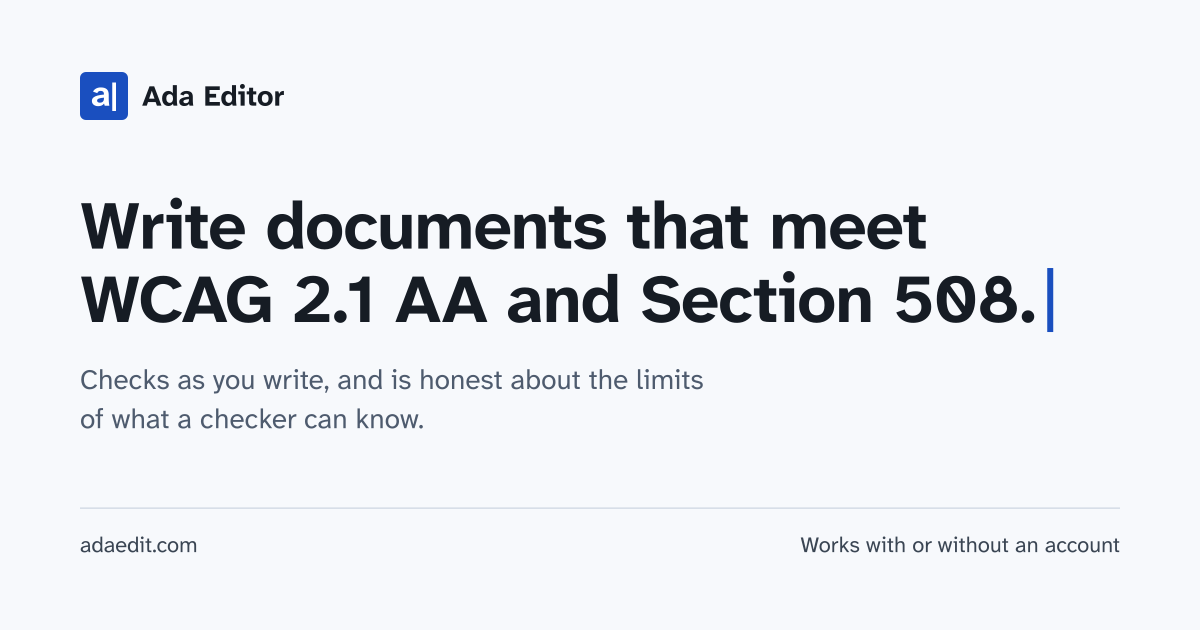
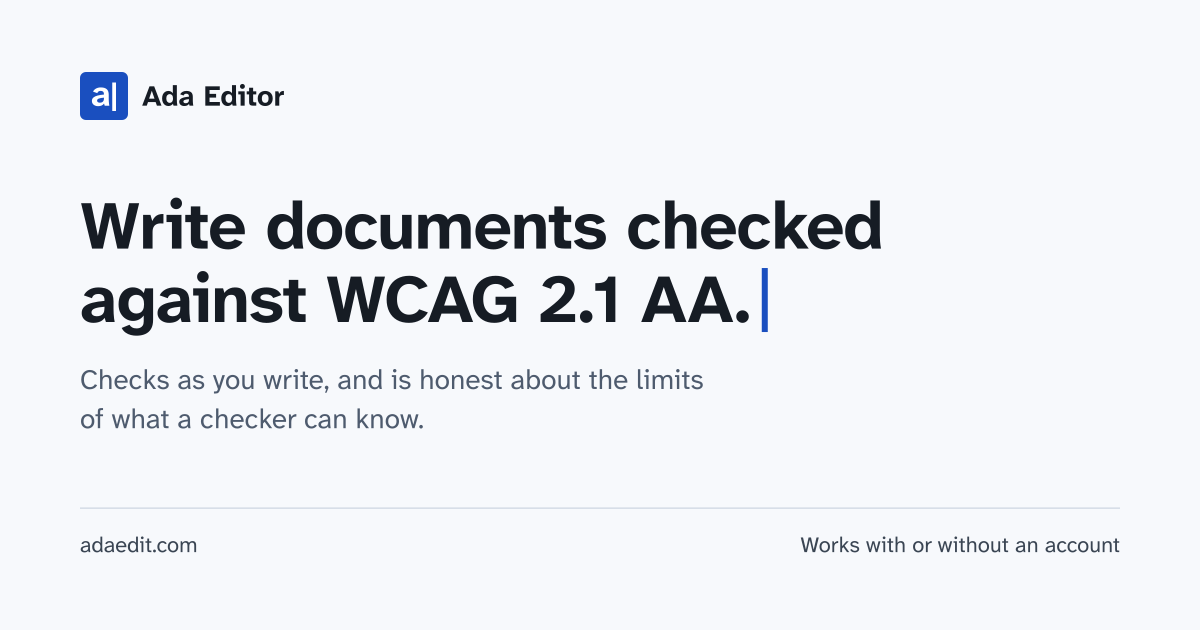
Guide: what "ADA compliant PDF" can and can't mean (#84)
/guides/ada-compliant-pdf: the ADA names no PDF standard; the standards
people mean (WCAG 2.1 AA under Title II, WCAG 2.0 AA under Section 508,
PDF/UA-1); what a checker can decide (the Matterhorn Protocol's machine and
human conditions) and what a PDF/UA label proves (our research found it on
files with no headings); how to get an accessible PDF; and what Ada Editor's
own exports are tested for. Linked from the home Promise, Help and About.

The tagline "Write documents that meet WCAG 2.1 AA and Section 508"
contradicted the guide in its own footer, so every copy (footer, default
description, manifest, share image and its alt text, README) now reads
"Write documents checked against WCAG 2.1 AA". The share image was rebuilt
with npm run icons:build.

Fact-checked against the Access Board, eCFR, PDF Association, PAC and
veraPDF pages before this commit.

Changed region(s): [[0.0617, 0.4222, 0.8942, 0.5429], [0.5242, 0.3016, 0.7708, 0.4222]]

diff --git a/app/guides/ada-compliant-pdf/page.tsx b/app/guides/ada-compliant-pdf/page.tsx
@@ -1,0 +1,164 @@
+import type { Metadata } from 'next';
+import Link from 'next/link';
+import { JsonLd, articleData } from '../../_site/JsonLd';
+import { pageMetadata } from '../../_site/pages';
+import { Site, Toc } from '../../_site/Site';
+import '../../research/research.css';
+
+export const metadata: Metadata = pageMetadata('/guides/ada-compliant-pdf');
+
+const HEADLINE = 'What “ADA compliant PDF” can and can’t mean';
+
+/* Every claim here traces to a source listed at the bottom: the Section 508
+ * standards, 28 CFR 35.200, the PDF Association (ISO 14289, the Matterhorn
+ * Protocol 1.1), the checkers' own pages, or our agenda-platform research
+ * (docs/audit/agenda-platforms-2026-10/report.md). Say "our reading" where it
+ * isn't a source's own words, and never call a file compliant. A change to
+ * what this page says is a new `updated` date in app/_site/pages.ts and a
+ * line under Corrections. No `current`: the footer doesn't list this page. */
+
+export default function Page() {
+  return (
+    <Site>
+      <JsonLd data={articleData('/guides/ada-compliant-pdf', HEADLINE)} />
+      <section className="site-page-hero" aria-labelledby="page-title">
+        <div className="site-wrap">
+          <p className="site-eyebrow">Guide</p>
+          <h1 id="page-title">{HEADLINE}</h1>
+          <p className="site-lede">
+            The ADA doesn’t define a compliant PDF. People who ask for one may mean WCAG 2.1 AA, WCAG 2.0 AA
+            (Section 508) or PDF/UA, and no checker, and no label inside the file, can confirm any of them on its own.
+          </p>
+          <dl className="site-facts">
+            <div><dt>By</dt><dd><Link href="/about">YourLaunchPad LLC</Link></dd></div>
+            <div><dt>Published</dt><dd><time dateTime="2026-10-12">12 October 2026</time></dd></div>
+            <div><dt>Last reviewed</dt><dd><time dateTime="2026-10-12">12 October 2026</time></dd></div>
+            <div><dt>Covers</dt><dd>WCAG 2.1 AA, Section 508, PDF/UA-1</dd></div>
+          </dl>
+        </div>
+      </section>
+
+      <div className="site-wrap site-statement research">
+        <Toc items={[['answer', 'The short answer'], ['standards', 'Which standard someone means'], ['checkers', 'What a checker can and can’t tell you'], ['has', 'What an accessible PDF has'], ['how', 'How to get one'], ['ours', 'What Ada Editor says about its own PDFs'], ['corrections', 'Corrections and limits'], ['sources', 'Sources']]} />
+        <div className="site-col">
+          <section id="answer" aria-labelledby="answer-title">
+            <h2 id="answer-title">The short answer</h2>
+            <p>
+              The Americans with Disabilities Act sets duties, not file formats. Where a rule names a technical
+              standard for documents, it is WCAG: Title II’s web rule uses WCAG 2.1 AA, and Section 508 uses WCAG 2.0
+              AA. PDF/UA is an ISO standard for the PDF file itself. “ADA compliant” is a description, not one of
+              these standards.
+            </p>
+            <p>
+              A PDF can pass an automated checker, carry a PDF/UA label, and still be hard or impossible to read with a
+              screen reader. Some of what these standards ask needs a person to judge.
+            </p>
+          </section>
+
+          <section id="standards" aria-labelledby="standards-title">
+            <h2 id="standards-title">Which standard someone means</h2>
+            <ul>
+              <li><strong>WCAG 2.1 AA, for state and local governments.</strong> The ADA’s Title II rule holds their web content, posted documents included, to WCAG 2.1 Level A and AA, currently from April 26, 2027 or April 26, 2028 depending on size (every special district: 2028). Our <Link href="/guides/title-ii-meeting-documents">guide to Title II for meeting documents</Link> has the dates and exceptions.</li>
+              <li><strong>WCAG 2.0 AA, under Section 508.</strong> Section 508 covers federal agencies. Its standards say electronic content “shall conform to Level A and Level AA Success Criteria and Conformance Requirements in WCAG 2.0”, and excuse documents that aren’t web pages from four criteria (2.4.1, 2.4.5, 3.2.3 and 3.2.4).</li>
+              <li><strong>PDF/UA-1 (ISO 14289-1), for the file.</strong> It sets technical requirements for an accessible PDF file, chiefly its tags: the structure that tells assistive technology what each part of the page is. PDF/UA-2 (ISO 14289-2:2024) is its revision for PDF 2.0.</li>
+            </ul>
+            <p>
+              They overlap but aren’t the same. The PDF Association says PDF/UA “provides a means of making PDF files
+              that conform to” WCAG, and that conforming to PDF/UA “does not necessarily ensure the accessibility of a
+              document’s content”: inaccessible use of colour or contrast, for example, is outside it.
+            </p>
+          </section>
+
+          <section id="checkers" aria-labelledby="checkers-title">
+            <h2 id="checkers-title">What a checker can and can’t tell you</h2>
+            <p>
+              The PDF Association’s Matterhorn Protocol lists the ways a file can fail PDF/UA-1. Its introduction counts
+              136 failure conditions: 87 “can be determined by software alone”, 47 “usually require human judgment”,
+              and two have no specific test. Version 1.1 added one more, which needs a person.
+            </p>
+            <ul>
+              <li><strong>Software can tell</strong> whether heading levels skip (an H3 straight after an H1), whether a figure has no alternative text, or whether the file has no title.</li>
+              <li><strong>A person has to tell</strong> whether headings were tagged as headings at all, whether something that looks like a list is tagged as one, and whether the title identifies the document.</li>
+            </ul>
+            <p>
+              WCAG adds judgements no file check makes, such as whether alt text serves the same purpose as the image.
+              A label proves even less: the PDF/UA identifier is a line of metadata written by the software that made
+              the file, and its presence doesn’t show the file meets the standard. In our <Link href="/research/agenda-platforms">research on agenda platforms</Link>,
+              a 199-page meeting package one platform built, with no headings, tables, lists or image descriptions, and a converted Word
+              file holding nothing but paragraphs, both declared PDF/UA-1.
+            </p>
+          </section>
+
+          <section id="has" aria-labelledby="has-title">
+            <h2 id="has-title">What an accessible PDF has</h2>
+            <p>In practice, most of what these standards ask of a PDF comes down to a short list:</p>
+            <ul>
+              <li><strong>Real tags:</strong> headings, lists and tables tagged as what they are, with header cells marked.</li>
+              <li><strong>A reading order</strong> that follows the meaning, with page numbers and decoration marked so screen readers skip them.</li>
+              <li><strong>Alternative text</strong> that serves the same purpose as each meaningful image.</li>
+              <li><strong>A language and a title,</strong> so a screen reader pronounces it correctly and announces what it is.</li>
+              <li><strong>Links whose purpose is clear</strong> from their text or its context, and colour that isn’t the only way to tell things apart.</li>
+              <li><strong>Enough contrast</strong> between text and background.</li>
+            </ul>
+            <p>
+              Our <Link href="/help#checks">list of the checks Ada Editor runs</Link> names the WCAG success criterion
+              behind each one.
+            </p>
+          </section>
+
+          <section id="how" aria-labelledby="how-title">
+            <h2 id="how-title">How to get one</h2>
+            <ol>
+              <li><strong>Make it accessible where you write it.</strong> Use real headings, lists and tables in Word or your editor, and write alt text there. A tagged export can only carry the structure the source document has.</li>
+              <li><strong>Export a tagged PDF.</strong> Use the export option that keeps tags, not Print to PDF or the print dialog’s Save as PDF, which drop the structure.</li>
+              <li><strong>Run a checker.</strong> PAC (free, for Windows) checks PDF/UA and WCAG; veraPDF (free and open source) validates PDF/UA. Fix what they find.</li>
+              <li><strong>Have a person read it,</strong> ideally with a screen reader, for the things software can’t judge.</li>
+              <li><strong>Check the copy you posted.</strong> Some agenda and document systems strip tags when they publish. Our <Link href="/help#posting">steps for posting a PDF to an agenda system</Link> cover what to do.</li>
+            </ol>
+          </section>
+
+          <section id="ours" aria-labelledby="ours-title">
+            <h2 id="ours-title">What Ada Editor says about its own PDFs</h2>
+            <p>
+              Ada Editor, whose maker publishes this guide, exports tagged PDFs that declare PDF/UA-1. We test the
+              exporter with veraPDF in our automated tests, as our{' '}
+              <Link href="/accessibility">accessibility statement</Link> says, on sample documents. That tests our
+              exporter, not your document: whatever the checker flags in your document is still in the PDF.
+            </p>
+            <p>
+              It won’t call your PDF compliant. It marks what software found, and what needs your call.
+            </p>
+          </section>
+
+          <section id="corrections" aria-labelledby="corrections-title">
+            <h2 id="corrections-title">Corrections and limits</h2>
+            <p>
+              This guide explains the standards. It isn’t legal advice: whether a document meets your obligations is a
+              question for your attorney.
+            </p>
+            <p>
+              Found something wrong or out of date?{' '}
+              <a href="https://github.com/Ruckus000/Ada-editor/issues/new?title=Guide%20correction%3A%20">Report a correction to this guide</a>{' '}
+              (public, on GitHub).
+            </p>
+            <p>None yet.</p>
+          </section>
+
+          <section id="sources" aria-labelledby="sources-title">
+            <h2 id="sources-title">Sources</h2>
+            <p>Read on October 12, 2026.</p>
+            <ul className="research__sources">
+              <li>U.S. Access Board, <a href="https://www.access-board.gov/ict/">Revised Section 508 Standards</a>, 36 CFR part 1194, E205.4 and 702.10.1.</li>
+              <li>28 CFR 35.200, <a href="https://www.ecfr.gov/current/title-28/chapter-I/part-35/subpart-H/section-35.200">requirements for web and mobile accessibility</a>, as amended April 20, 2026.</li>
+              <li>W3C, <a href="https://www.w3.org/TR/WCAG21/">Web Content Accessibility Guidelines (WCAG) 2.1</a>.</li>
+              <li>PDF Association, <a href="https://pdfa.org/resource/iso-14289-pdfua/">ISO 14289-1 (PDF/UA-1)</a>, including its context and limitations.</li>
+              <li>PDF Association, <a href="https://pdfa.org/resource/the-matterhorn-protocol/">The Matterhorn Protocol 1.1</a> (April 2021).</li>
+              <li><a href="https://pac.pdf-accessibility.org/en/download">PAC 2026</a>, download page and system requirements.</li>
+              <li><a href="https://verapdf.org/">veraPDF</a>, the open-source PDF/A and PDF/UA validator.</li>
+            </ul>
+          </section>
+        </div>
+      </div>
+    </Site>
+  );
+}

diff --git a/app/page.tsx b/app/page.tsx
@@ -156,7 +156,7 @@ export default function Page() {
       <section id="promise" className="site-section site-wrap site-split" aria-labelledby="promise-title">
         <div>
           <h2 id="promise-title" className="site-h2">We will never call your document “compliant.”</h2>
-          <p className="site-lede">Automated checks cover roughly a third of WCAG. Ada Editor flags what it can prove, marks what needs a person, and says so when it finds nothing.</p>
+          <p className="site-lede">Automated checks cover roughly a third of WCAG. Ada Editor flags what it can prove, marks what needs a person, and says so when it finds nothing. <Link href="/guides/ada-compliant-pdf">What “ADA compliant” can and can’t mean</Link>.</p>
         </div>
         <div className="site-panel">
           <p className="site-findings__head"><span>Findings</span><span className="site-count">0 automated</span></p>

diff --git a/app/help/page.tsx b/app/help/page.tsx
@@ -78,7 +78,7 @@ export default function Page() {
                 </div>
               ))}
             </dl>
-            <p>No findings doesn’t mean a document is accessible. Automated checks cover roughly a third of WCAG; whether alt text is accurate, or headings match the real structure, still needs a person.</p>
+            <p>No findings doesn’t mean a document is accessible. Automated checks cover roughly a third of WCAG; whether alt text is accurate, or headings match the real structure, still needs a person. More in our guide to <Link href="/guides/ada-compliant-pdf">what “ADA compliant PDF” can and can’t mean</Link>.</p>
           </section>
 
           <section id="checks" aria-labelledby="checks-title">

diff --git a/app/about/page.tsx b/app/about/page.tsx
@@ -56,7 +56,8 @@ export default function Page() {
             <ul>
               <li>
                 <strong>No compliance claims.</strong> Automated checks cover only part of WCAG, so Ada Editor never
-                calls a document compliant. What needs a person is marked “Needs your call”.
+                calls a document compliant. What needs a person is marked “Needs your call”. Our guide explains{' '}
+                <Link href="/guides/ada-compliant-pdf">what “ADA compliant PDF” can and can’t mean</Link>.
               </li>
               <li>
                 <strong>Your Word files stay with you.</strong> They are read in your browser; the file itself is never

diff --git a/app/_site/Site.tsx b/app/_site/Site.tsx
@@ -26,7 +26,7 @@ export function Site({ current, children }: { current?: 'about' | 'accessibility
         <div className="site-footer__cols">
           <div className="site-footer__about">
             <p className="site-brand"><span className="site-brand__mark" aria-hidden="true"><BrandMark /></span>Ada Editor</p>
-            <p>Write documents that meet WCAG 2.1 AA and Section 508, and know exactly what a checker can’t tell you.</p>
+            <p>Write documents checked against WCAG 2.1 AA, and know exactly what a checker can’t tell you.</p>
           </div>
           <nav aria-labelledby="site-foot-product">
             <h2 id="site-foot-product">Product</h2>

diff --git a/app/_site/pages.ts b/app/_site/pages.ts
@@ -77,6 +77,14 @@ export const PAGES = [
     updated: '2026-10-12',
     kind: 'article',
   },
+  {
+    path: '/guides/ada-compliant-pdf',
+    title: 'What “ADA compliant PDF” can and can’t mean · Ada Editor',
+    description: 'What an “ADA compliant PDF” can mean (WCAG 2.1 AA, Section 508, PDF/UA), what checkers and PDF/UA labels can’t confirm, and how to make an accessible one.',
+    published: '2026-10-12',
+    updated: '2026-10-12',
+    kind: 'article',
+  },
 ] as const satisfies readonly SitePage[];
 
 export type SitePath = (typeof PAGES)[number]['path'];

diff --git a/app/manifest.ts b/app/manifest.ts
@@ -9,7 +9,7 @@ export default function manifest(): MetadataRoute.Manifest {
   return {
     name: 'Ada Editor',
     short_name: 'Ada Editor',
-    description: 'Write documents that meet WCAG 2.1 AA and Section 508.',
+    description: 'Write documents checked against WCAG 2.1 AA.',
     // Opens on the desk (sign-in first when signed out). The id keeps the
     // identity home-screen shortcuts were saved with when start_url was /.
     id: '/',

diff --git a/app/layout.tsx b/app/layout.tsx
@@ -21,7 +21,7 @@ import { SITE_URL } from './_site/pages';
 export const metadata: Metadata = {
   metadataBase: new URL(SITE_URL),
   applicationName: 'Ada Editor',
-  description: 'Write documents that meet WCAG 2.1 AA and Section 508.',
+  description: 'Write documents checked against WCAG 2.1 AA.',
   openGraph: { siteName: 'Ada Editor', type: 'website', locale: 'en_US' },
 };
 

diff --git a/docs/audit/search-and-ai-2026-10/research-niche.md b/docs/audit/search-and-ai-2026-10/research-niche.md
@@ -249,3 +249,20 @@ Demand basis: G = Google autocomplete variants; PAA = Brave "People also ask"; n
 - **The docket** (PacerMonitor, read 2026-10-12): entry 16, NFB's motion for summary judgment on 2026-09-28. Judge Richard D. Bennett. No cross-motion or ruling shown.
 - **What the complaint asks** (read in full, [browngold.com](https://browngold.com/wp-content/uploads/2026/05/NFB-v.-DOJ_5-21-2026.pdf)): its Prayer for Relief asks the court to "Hold unlawful, vacate, and/or set aside the IFRs" and declare them unlawful. It never asks to "restore" dates; that is the summaries' gloss, and it corrects "seeks to restore the original dates" above.
 - **The 2024 rule on agendas:** agendas, minutes and other documents for meetings after the compliance date "would likely not" be archived content (89 FR 31340), and "would generally need to conform to WCAG 2.1 Level AA" (89 FR 31362). Instructions for documents still in use aren't excepted, and "currently used" is "a fact-specific analysis" (89 FR 31365).
+
+### Addendum, 2026-10-12: sourced for the "ADA compliant PDF" guide
+- **Matterhorn Protocol 1.1** (PDF Association, April 2021; supersedes 1.02). It reads: "a set of 31 checkpoints comprised of 136 failure conditions… 87 failure conditions can be determined by software alone, 47 failure conditions usually require human judgment. 2 failure conditions have no specific tests (23-001 and 27-001)."
+  - Machine examples: 14-003 (skipped heading levels), 13-004 (Figure alt text missing), 06-003 (no dc:title).
+  - Human examples: 14-001 (headings not tagged), 16-003 (a list not tagged as a list), 06-004 (title doesn't identify the document).
+  - The 1.1 table adds 13-008 (human), so the table holds 137 conditions, 48 of them human, while the introduction still says 136 and 47. The PDF Association's `techniques-for-accessible-pdf/config/matterhorn.yaml` agrees with the table. The guide quotes the introduction and notes the addition.
+  - pdfa.org blocks scripted fetches; it was read in a browser.
+- **PDF Association, ISO 14289-1 page:**
+  - PDF/UA "provides a means of making PDF files that conform to" WCAG.
+  - "By itself, conformity to PDF/UA does not necessarily ensure the accessibility of a document's content", and colour and contrast are outside it.
+  - ISO 14289-2:2024 is PDF/UA-2, for PDF 2.0.
+- **Revised 508 Standards (Access Board):**
+  - E205.4: electronic content "shall conform to Level A and Level AA Success Criteria and Conformance Requirements in WCAG 2.0".
+  - Non-Web documents are excepted from 2.4.1, 2.4.5, 3.2.3 and 3.2.4.
+  - 702.10.1 incorporates WCAG 2.0 (December 11, 2008).
+- **PAC 2026.1:** free; Windows 10 or 11 with .NET Framework 4.8; checks ISO 14289 and WCAG.
+- **veraPDF:** an "open source, file-format validator covering all PDF/A and PDF/UA parts and conformance levels".

diff --git a/docs/audit/search-and-ai-2026-10.md b/docs/audit/search-and-ai-2026-10.md
@@ -234,7 +234,7 @@ Bing Webmaster Tools, a sitemap there, and IndexNow come before anything else ai
 4. **Content, about a page a week:**
    1. the agenda-platform research;
    2. Title II for meeting documents, with the current dates (April 26, 2027 and April 26, 2028), the lawsuit's status and DOJ's own examples. *Published 2026-10-12 at `/guides/title-ii-meeting-documents`, an Article like the research page, every claim checked against the regulation's text, DOJ's fact sheet or the docket. Left out, as no query asked for them: state laws, HHS's Section 504 dates, and the two exceptions that don't touch meeting documents;*
-   3. what "ADA compliant PDF" can and can't mean;
+   3. what "ADA compliant PDF" can and can't mean. *Published 2026-10-12 at `/guides/ada-compliant-pdf`, an Article sourced to the 508 standards, 28 CFR 35.200, the PDF Association (ISO 14289, Matterhorn Protocol 1.1), and our agenda-platform research. It ships with one decision: the site's tagline "Write documents that meet WCAG 2.1 AA and Section 508" (footer, default meta description, web manifest, share image and its alt text, README) contradicted the guide on its own page, so all copies became "Write documents checked against WCAG 2.1 AA". That resolves the messaging conflict research-niche.md recorded. Not in the footer: it has one guide slot, and the page is linked from the home Promise, Help and About instead;*
    4. accessible agenda and minutes templates;
    5. Word to tagged PDF;
    6. agendas as HTML or PDF;

diff --git a/README.md b/README.md
@@ -26,7 +26,7 @@ axe-core in CI
 
 ---
 
-Write documents that meet WCAG 2.1 AA and Section 508.
+Write documents checked against WCAG 2.1 AA.
 
 A writing tool that checks documents for accessibility problems as you write —
 and is honest about the limits of what a checker can know.
